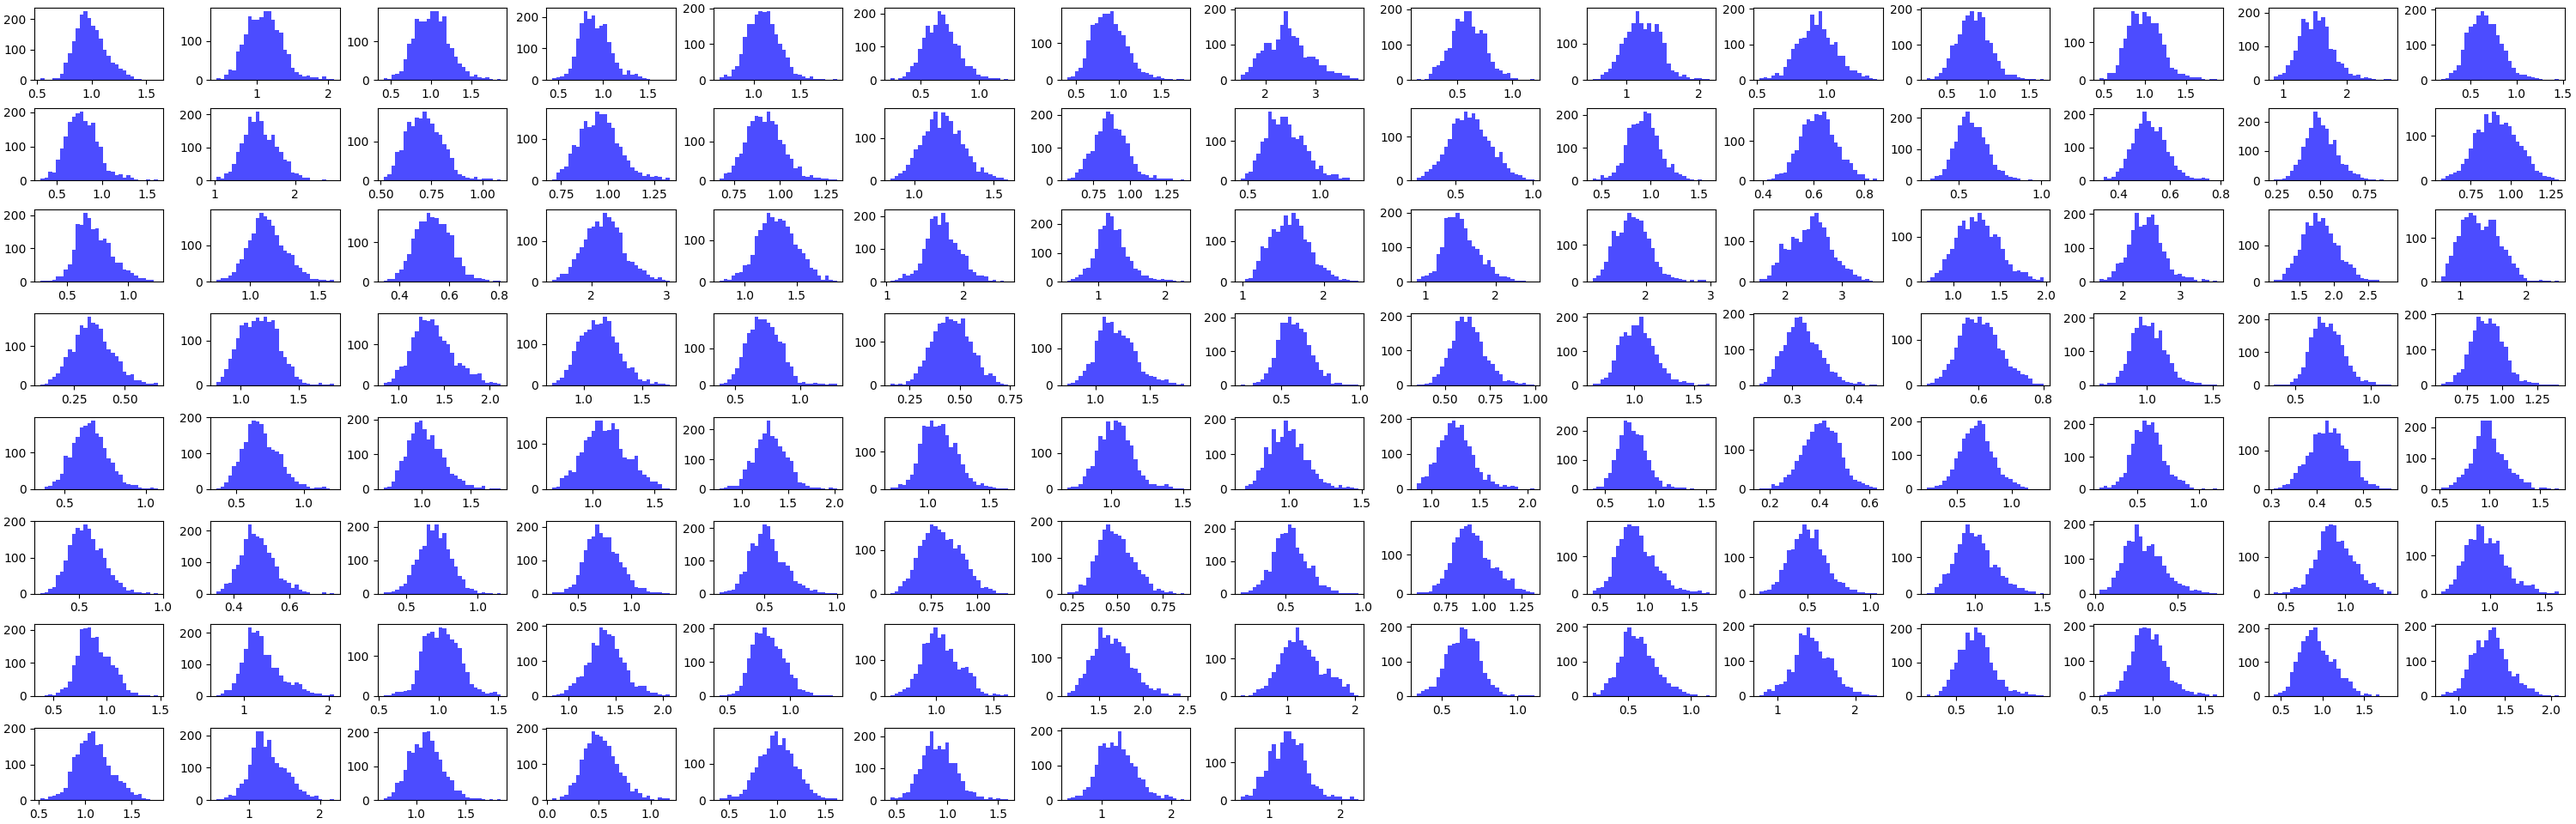
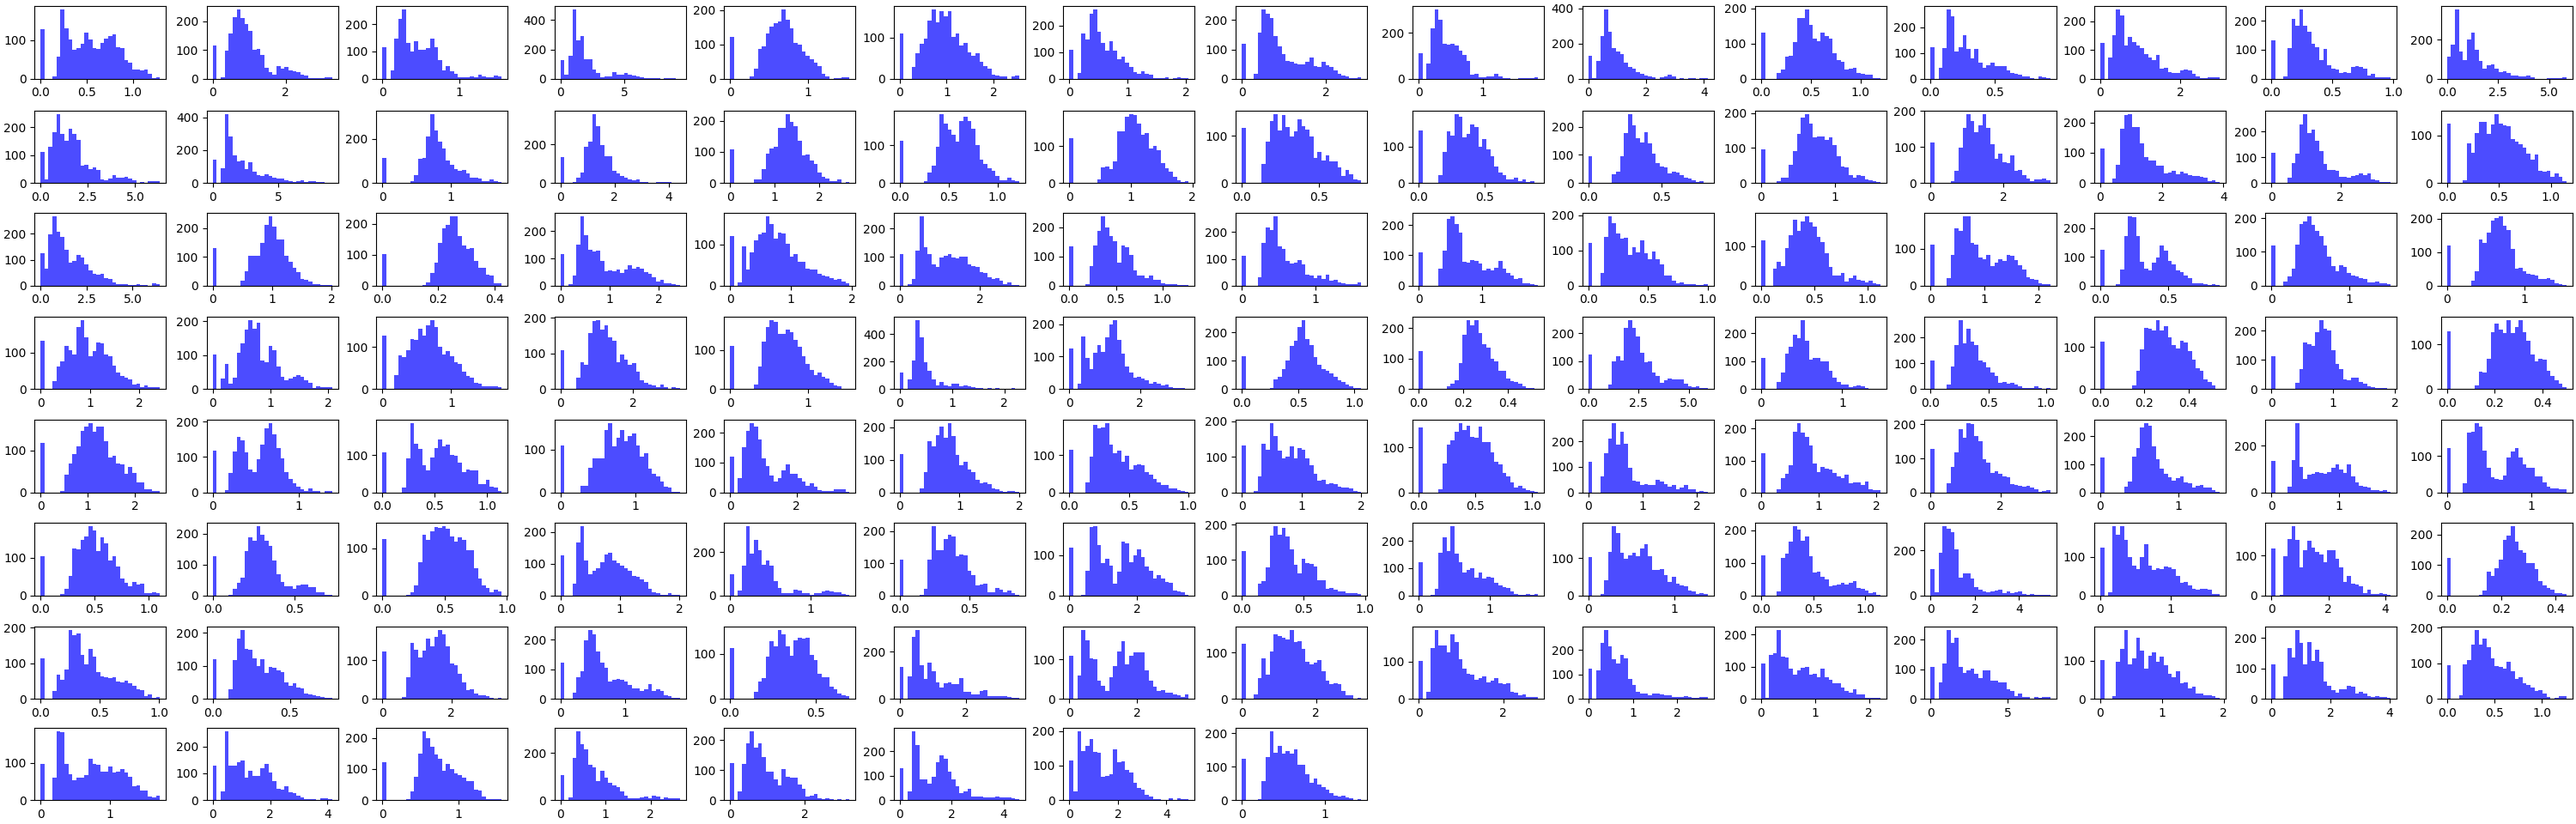
minor

Changed region(s): [[0.0, 0.0, 1.0, 1.0]]

diff --git a/simulation/simulator.py b/simulation/simulator.py
@@ -130,12 +130,12 @@ class Simulator:
 
         if c_L is None:
             c_L = np.random.randn(num_nodes, c_rank) / np.sqrt(c_rank) * sigma
-        c_cov_matrix = c_L @ c_L.T + np.random.randn(num_nodes, num_nodes) * 1e-2
+        c_cov_matrix = c_L @ c_L.T + np.random.randn(num_nodes, num_nodes) * 1e-5
         c_mu = np.full(num_nodes, mean)
 
         if reax_L is None:
             reax_L = np.random.randn(num_reactions, reax_rank) / np.sqrt(reax_rank) * sigma
-        reax_cov_matrix = reax_L @ reax_L.T + np.random.randn(num_reactions, num_reactions) * 1e-2
+        reax_cov_matrix = reax_L @ reax_L.T + np.random.randn(num_reactions, num_reactions) * 1e-5
         reax_mu = np.full(num_reactions, mean_barrier)
 
         self.free_energies = np.random.multivariate_normal(c_mu, c_cov_matrix, size=n_samples)
@@ -151,8 +151,8 @@ class Simulator:
                     idx += 1
         self.kinetic_constants = np.exp(-transition_free_energies) * symm_adjacency[np.newaxis, :, :]
         self.sparse_kinetic_constants = self.kinetic_constants[:, symm_adjacency > 0]
-        self.degradation_constants = np.exp(np.random.normal(mean, sigma, size=(n_samples, num_nodes)))
-        self.production_constants = np.exp(np.random.normal(mean, sigma, size=(n_samples, num_nodes)))
+        self.degradation_constants = np.exp(np.random.normal(mean-0.4, sigma/2, size=(n_samples, num_nodes)))
+        self.production_constants = np.exp(np.random.normal(mean-0.4, sigma/2, size=(n_samples, num_nodes)))
         self.dropout = np.random.random() * 0.1
         self.concentration_noise = 0.1 * np.random.random()
         self.log_kinetic_constants_noise = 0.04 * np.random.random()
@@ -248,6 +248,9 @@ class Simulator:
         tracked_concentrations = [[] for node in track_concentrations]
 
         k_out = np.sum(self.kinetic_constants, axis=2)
+        print(k_out.shape)
+        print(self.degradation_constants.shape)
+        print(k_out)
         for iteration in range(max_iterations):
             if iteration == max_iterations - 1:
                 raise Exception("Simulation did not converge within the maximum number of iterations.")
@@ -376,10 +379,10 @@ class Simulator:
         if not hasattr(self, 'simulated_data'):
             raise ValueError("Simulated data not found. Please run a noisy simulation with collect_data=True first.")
         
-        mean_concentrations = np.mean(self.simulated_data, axis=0)
-        std_concentrations = np.std(self.simulated_data, axis=0)
+        mean_concentrations = np.mean(self.simulated_data[:, 0, :], axis=0)
+        std_concentrations = np.std(self.simulated_data[:, 0, :], axis=0)
 
-        num_components = self.simulated_data.shape[1]
+        num_components = self.simulated_data.shape[2]
         num_rows = 8
         num_cols = (num_components + num_rows - 1) // num_rows
 
@@ -389,7 +392,7 @@ class Simulator:
                 axes[i // num_cols, i % num_cols].axis('off')
             else:
                 ax = axes[i // num_cols, i % num_cols]
-                ax.hist(self.simulated_data[:, i], bins=30, color='blue', alpha=0.7)
+                ax.hist(self.simulated_data[:, 0, i], bins=30, color='blue', alpha=0.7)
             #ax.set_title(f'Component {i}')
         #fig.suptitle('Lipids concentrations distribution in all ReferenceAtlas sample', fontsize=16)
         plt.savefig(os.path.join('simulation', 'figures', 'concentration_distributions.png'))
@@ -428,12 +431,12 @@ if __name__ == "__main__":
     simulator = Simulator(random_seed=12)
     graph = simulator.build_graph(adjacency_matrix=adj_matrix)
     #simulator.graph_info()
-    simulator.sample_free_energies(mean=0, sigma=1.0, mean_barrier=1.0, random_seed=12, c_rank=10, reax_rank=10, n_samples=2)
+    simulator.sample_free_energies(mean=0, sigma=1.0, mean_barrier=1.0, random_seed=12, c_rank=5, reax_rank=5, n_samples=10)
 
     nodes_to_track = [i for i in range(len(all_lipids))]
     concentrations = simulator.run_equilibration(track_concentrations=nodes_to_track)
     simulator.set_simulation_parameters(correlation_matrix=correlation_matrix)
-    simulated_data = simulator.run_noisy_simulation(steps=2000, track_concentrations=nodes_to_track)
+    simulated_data = simulator.run_noisy_simulation(steps=500, track_concentrations=nodes_to_track)
 
     #mean_concentrations, std_concentrations = simulator.analyze_results()
 
@@ -441,9 +444,11 @@ if __name__ == "__main__":
     correlation_df = pd.DataFrame(correlation_matrix_simulated, index=all_lipids, columns=all_lipids)
     sns.clustermap(correlation_df, cmap='coolwarm', cbar=True, vmin=-1, vmax=1, annot=False)
     plt.tight_layout()
+    plt.show()
     
     pca = PCA()
     pca.fit(simulator.free_energies)
+    print(simulator.free_energies.shape)
 
     # 2. Extract the Eigenvalues (Variances)
     eigenvalues = pca.explained_variance_
@@ -464,5 +469,5 @@ if __name__ == "__main__":
     # 4. Check the "Intrinsic Dimension"
     # Count how many components are effectively non-zero (above machine noise)
     # A common threshold for numerical noise is 1e-10
-    effective_rank = np.sum(eigenvalues > 1e-10)
+    effective_rank = np.sum(eigenvalues > 1e-3)
     print(f"PCA estimates the rank is: {effective_rank}")
